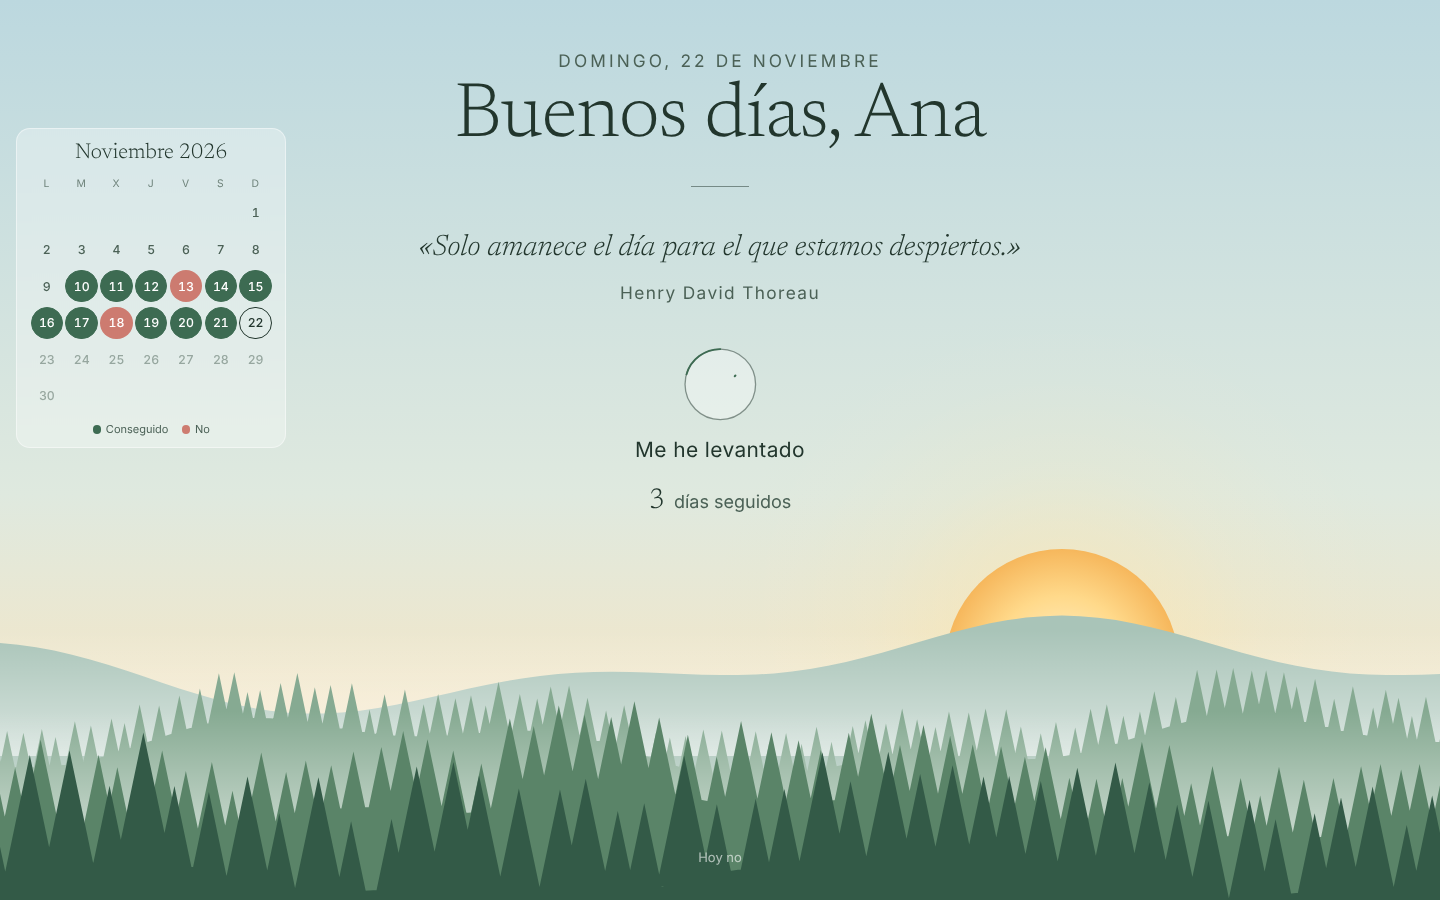
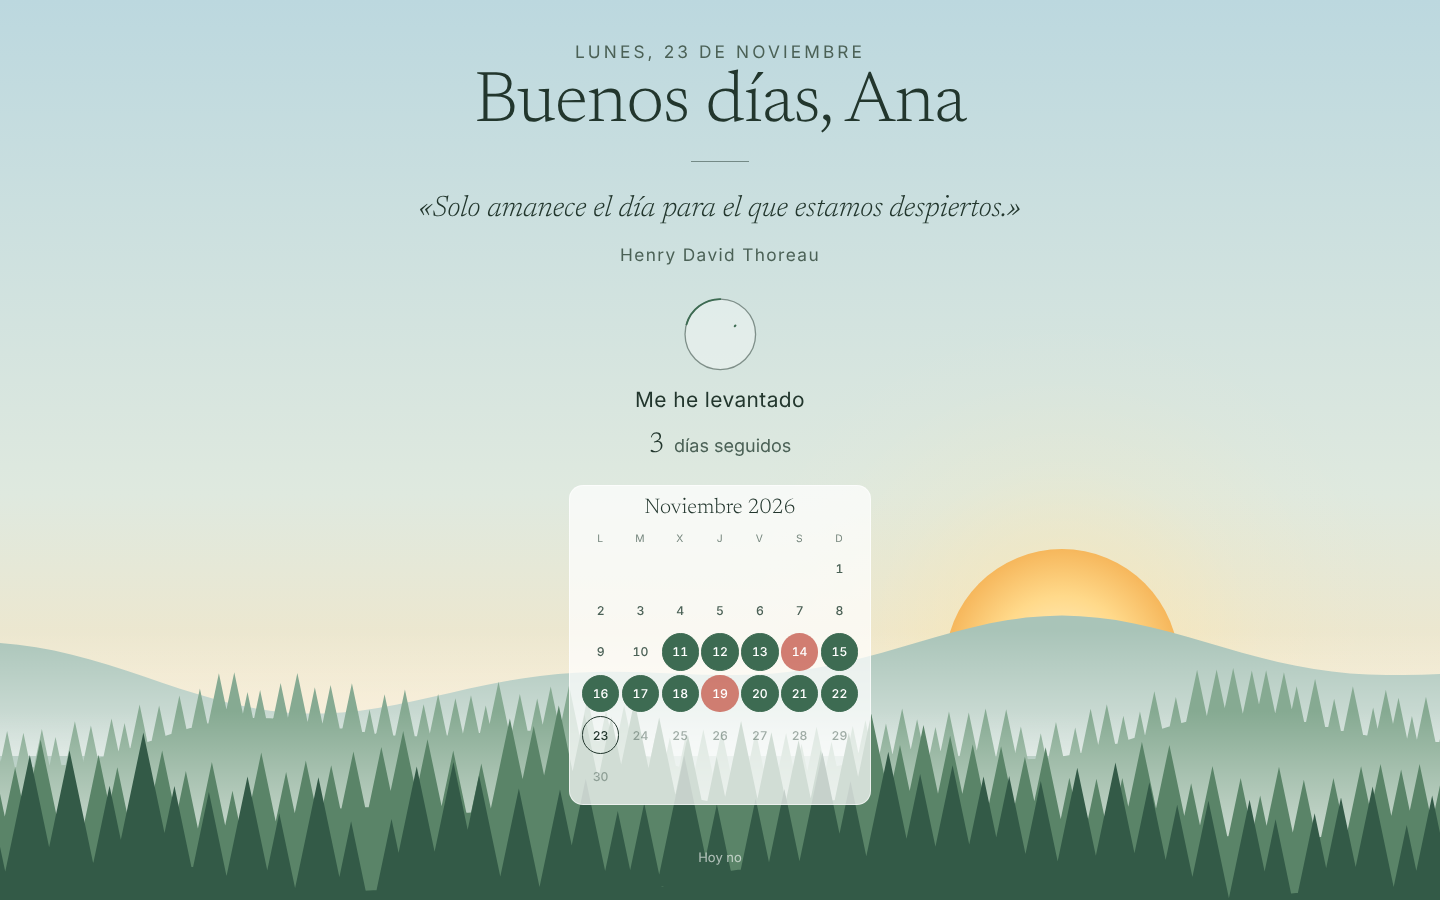
1.1.0: calendario debajo de la racha y sin App Nap en Mac
Claude-Session: https://claude.ai/code/session_01RMvP8RRBRGRuGEYmTd4TAn

diff --git a/ui/estilos.css b/ui/estilos.css
@@ -33,16 +33,16 @@ body.saliendo { opacity: 0; }
 .vista { position: fixed; inset: 0; }
 
 /* --- Check --- */
-#vista-check { display: grid; grid-template-columns: 1fr minmax(0, 58cqw) 1fr; height: 64cqh; align-items: center; }
-.contenido { grid-column: 2; display: flex; flex-direction: column; align-items: center; text-align: center; }
+#vista-check { display: flex; justify-content: center; align-items: center; padding-bottom: 6cqh; }
+.contenido { width: min(100%, 62cqw); display: flex; flex-direction: column; align-items: center; text-align: center; }
 .fecha { font-size: max(11px, 1.2cqw); letter-spacing: .18em; text-transform: uppercase; color: var(--tinta-suave); }
-h1 { font-family: var(--serif); font-weight: 300; font-size: min(5.4cqw, 9cqh); margin: .6cqw 0 0; letter-spacing: -.01em; text-wrap: balance; }
-.raya { width: 4cqw; height: 1px; background: var(--linea); margin-top: 2cqw; }
-blockquote { margin: 2.8cqw 0 0; }
+h1 { font-family: var(--serif); font-weight: 300; font-size: min(5.4cqw, 8cqh); margin: .6cqh 0 0; letter-spacing: -.01em; text-wrap: balance; }
+.raya { width: 4cqw; height: 1px; background: var(--linea); margin-top: min(2cqw, 2.4cqh); }
+blockquote { margin: min(2.8cqw, 3cqh) 0 0; }
 blockquote p { font-family: var(--serif); font-style: italic; font-weight: 300; font-size: max(15px, min(2.05cqw, 3.6cqh)); line-height: 1.42; margin: 0; text-wrap: balance; }
 blockquote cite { display: block; margin-top: .9cqw; font-style: normal; font-size: max(11px, 1.2cqw); letter-spacing: .08em; color: var(--tinta-suave); }
 
-.check { margin-top: 2.8cqw; background: none; border: 0; padding: 0; cursor: pointer; display: flex; flex-direction: column; align-items: center; gap: .9cqw; color: var(--tinta); font: 400 max(14px, 1.45cqw) var(--sans); letter-spacing: .02em; }
+.check { margin-top: min(2.8cqw, 3.2cqh); background: none; border: 0; padding: 0; cursor: pointer; display: flex; flex-direction: column; align-items: center; gap: .9cqw; color: var(--tinta); font: 400 max(14px, 1.45cqw) var(--sans); letter-spacing: .02em; }
 .check:focus-visible { outline: 1px solid var(--verde); outline-offset: 6px; border-radius: 6px; }
 .check svg { width: 5.6cqw; min-width: 44px; overflow: visible; }
 .check svg * { fill: none; stroke-linecap: round; stroke-linejoin: round; vector-effect: non-scaling-stroke; }
@@ -65,7 +65,7 @@ blockquote cite { display: block; margin-top: .9cqw; font-style: normal; font-si
 @keyframes trazar { to { stroke-dashoffset: 0; } }
 @keyframes onda { 0% { opacity: .7; transform: scale(1); } 100% { opacity: 0; transform: scale(2.1); } }
 
-.racha { margin-top: 1.4cqw; font-size: max(13px, 1.25cqw); color: var(--tinta-suave); position: relative; height: 2.2em; overflow: hidden; min-width: 16em; }
+.racha { margin-top: min(1.4cqw, 1.6cqh); font-size: max(13px, 1.25cqw); color: var(--tinta-suave); position: relative; height: 2.2em; overflow: hidden; min-width: 16em; }
 .racha > div { position: absolute; inset: 0; display: flex; align-items: baseline; justify-content: center; gap: .5em; transition: transform .6s cubic-bezier(.3,.7,.2,1) 1.2s, opacity .6s 1.2s; }
 .racha > div + div { transform: translateY(100%); opacity: 0; }
 .amanece .racha > div:first-child { transform: translateY(-100%); opacity: 0; }
@@ -73,13 +73,12 @@ blockquote cite { display: block; margin-top: .9cqw; font-style: normal; font-si
 .racha b { font: 300 1.6em var(--serif); color: var(--tinta); font-variant-numeric: tabular-nums; }
 .racha div + div b { color: var(--verde); }
 
-/* Calendario, a la izquierda en el cielo */
+/* Calendario del mes, debajo de la racha */
 .calendario {
-  grid-column: 1; justify-self: center; width: min(19cqw, 270px); min-width: 170px;
-  padding: 1.1em 1.1em .9em; border-radius: 14px;
-  background: rgba(255,255,255,.32); backdrop-filter: blur(6px); -webkit-backdrop-filter: blur(6px);
-  border: 1px solid rgba(255,255,255,.45);
-  font-size: max(10px, min(.85cqw, 13px)); color: var(--tinta-suave);
+  width: clamp(200px, min(21cqw, 34cqh), 330px); margin-top: 1.6cqh;
+  padding: .9em 1em .7em; border-radius: 14px;
+  background: rgba(255,255,255,.82); border: 1px solid rgba(255,255,255,.6);
+  font-size: clamp(9px, min(.85cqw, 1.35cqh), 12.5px); color: var(--tinta-suave);
 }
 .mes { font: 300 1.75em var(--serif); color: var(--tinta); text-align: center; margin-bottom: .6em; }
 .calendario { --ok: #3d6b52; --ko: rgba(201,103,91,.85); }
@@ -99,11 +98,6 @@ blockquote cite { display: block; margin-top: .9cqw; font-style: normal; font-si
 .amanece .hoy-no { opacity: 0; pointer-events: none; }
 .aviso-prueba { position: fixed; top: 14px; left: 50%; transform: translateX(-50%); font-size: 12px; letter-spacing: .06em; color: var(--tinta-suave); background: rgba(255,255,255,.5); padding: 5px 12px; border-radius: 99px; }
 
-/* Ventana pequeña: el calendario pasa a ocupar menos */
-@container (max-width: 980px) {
-  #vista-check { grid-template-columns: 1fr minmax(0, 60cqw) .4fr; }
-  .calendario { min-width: 0; width: 26cqw; font-size: 10.5px; padding: .8em; }
-}
 
 /* --- Ajustes --- */
 #vista-ajustes { display: grid; place-items: start center; padding-top: 4cqh; padding-bottom: 4cqh; overflow: auto; }

diff --git a/ui/index.html b/ui/index.html
@@ -11,7 +11,6 @@
 
 <!-- Pantalla del check -->
 <main class="vista" id="vista-check" hidden>
-  <aside class="calendario" id="calendario" aria-label="Calendario del mes"></aside>
   <section class="contenido">
     <div class="fecha" id="fecha"></div>
     <h1 id="saludo">Buenos días</h1>
@@ -29,6 +28,7 @@
       <span class="texto-check"><span>Me he levantado</span><span>Hecho. Buen día.</span></span>
     </button>
     <div class="racha" id="racha"></div>
+    <div class="calendario" id="calendario" aria-label="Calendario del mes"></div>
   </section>
   <button class="hoy-no" id="hoy-no" type="button">Hoy no</button>
   <div class="aviso-prueba" id="aviso-prueba" hidden>Modo prueba: no cuenta para la racha</div>

diff --git a/ui/app.js b/ui/app.js
@@ -122,7 +122,7 @@ async function iniciarCheck() {
   $("cita").textContent = "«" + e.cita + "»";
   $("autor").textContent = e.autor;
   $("racha").append(lineaRacha(e.racha), lineaRacha(e.racha + 1, true));
-  pintarCalendario($("calendario"), e, true);
+  pintarCalendario($("calendario"), e, false);
 
   let hecho = false;
   const marcar = async () => {

diff --git a/src-tauri/src/lib.rs b/src-tauri/src/lib.rs
@@ -317,6 +317,21 @@ fn guardar_ajustes(app: AppHandle, nombre: String, hora: u32, minuto: u32, modo:
     }
 }
 
+// En Mac, una app en segundo plano y sin ventanas puede quedar "dormida" (App Nap) y
+// mirar la hora tarde. Esto le pide al sistema que la deje despierta (sin impedir que
+// el Mac entre en reposo).
+#[cfg(target_os = "macos")]
+fn sin_siesta() {
+    use objc2_foundation::{NSActivityOptions, NSProcessInfo, NSString};
+    let motivo = NSString::from_str("Mostrar el amanecer a la hora elegida");
+    #[allow(unused_unsafe)]
+    let actividad = unsafe {
+        NSProcessInfo::processInfo()
+            .beginActivityWithOptions_reason(NSActivityOptions::UserInitiatedAllowingIdleSystemSleep, &motivo)
+    };
+    std::mem::forget(actividad); // debe durar toda la vida de la app
+}
+
 // ---------- Arranque ----------
 
 pub fn run() {
@@ -333,7 +348,10 @@ pub fn run() {
         ])
         .setup(|app| {
             #[cfg(target_os = "macos")]
-            app.set_activation_policy(tauri::ActivationPolicy::Accessory); // sin icono en el Dock
+            {
+                app.set_activation_policy(tauri::ActivationPolicy::Accessory); // sin icono en el Dock
+                sin_siesta();
+            }
 
             let h = app.handle().clone();
             let ver = MenuItem::with_id(app, "racha", "Ver mi racha", true, None::<&str>)?;
